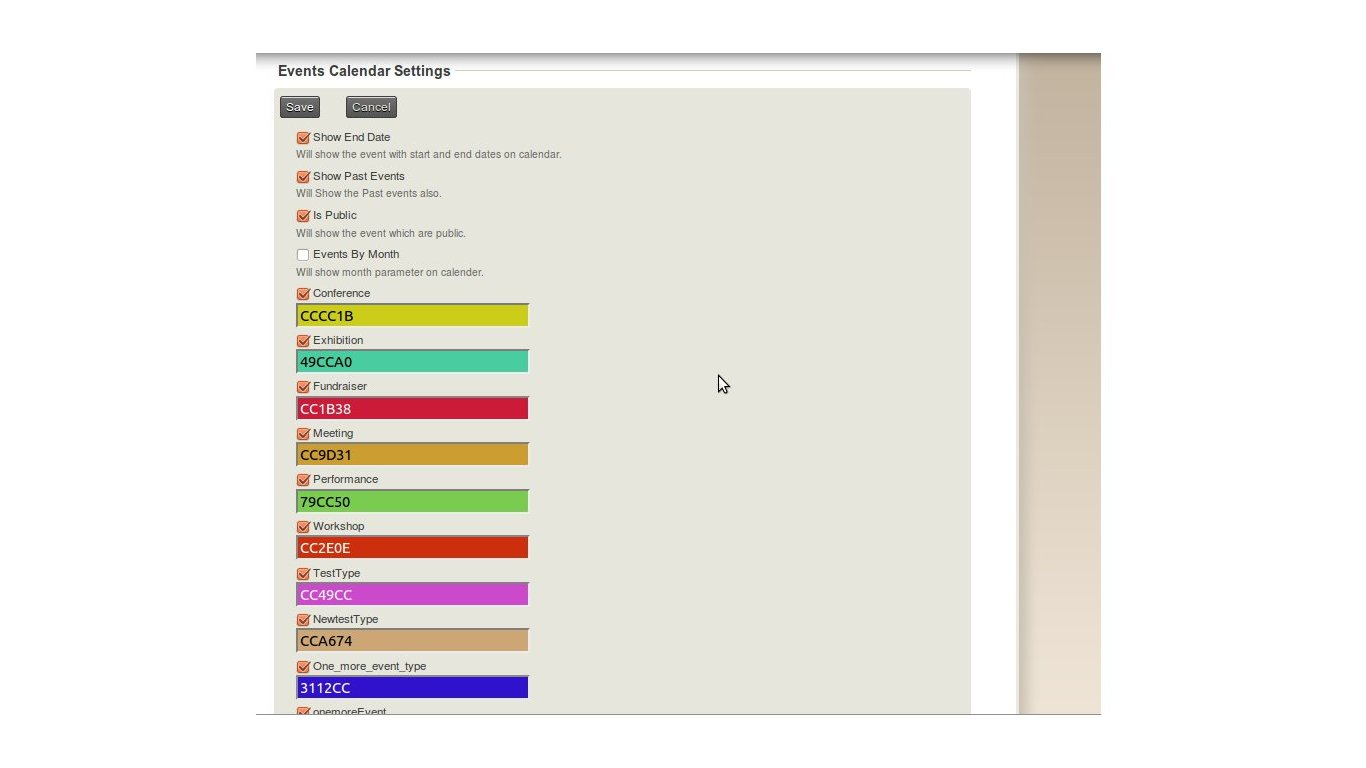
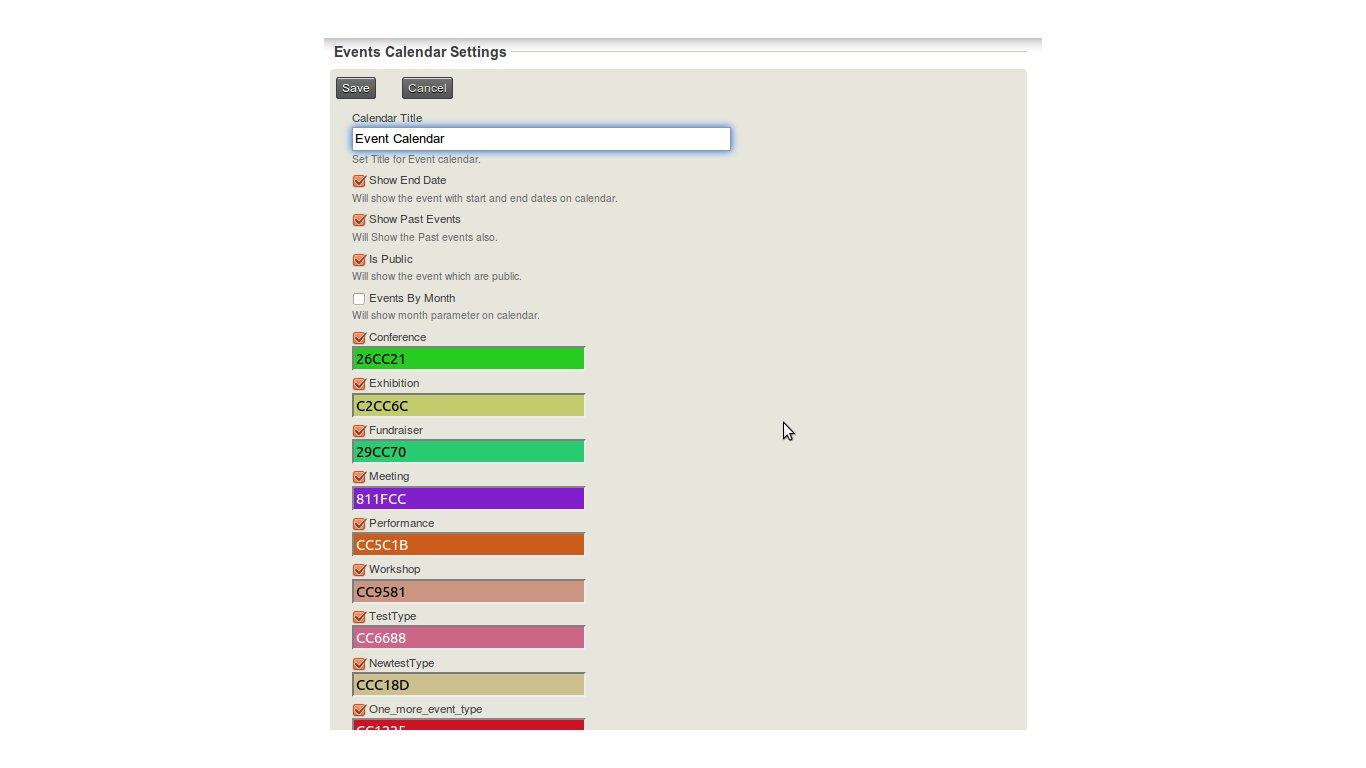
modified to add text box for title field

Changed region(s): [[0.1845, 0.0312, 0.8302, 0.9688]]

diff --git a/CRM/Eventcalendar/Form/EventSettings.php b/CRM/Eventcalendar/Form/EventSettings.php
@@ -75,37 +75,43 @@ function setDefaultValues() {
         $defaults[$key] = $key; 
       }
     }
- if(isset($config->civicrm_events_event_past)) { 
-  $defaults['show_past_event'] = $config->civicrm_events_event_past;
- } else {
+  if(isset($config->civicrm_event_calendar_title)) { 
+    $defaults['event_calendar_title'] = $config->civicrm_event_calendar_title;
+  } else {
+    $config->civicrm_event_calendar_title = 'Event Calendar';
+    $defaults['event_calendar_title'] = 'Event Calendar';
+   }
+  if(isset($config->civicrm_events_event_past)) { 
+    $defaults['show_past_event'] = $config->civicrm_events_event_past;
+  } else {
     $config->civicrm_events_event_past = 1;
     $defaults['show_past_event'] = 1;
    } 
- if(isset($config->civicrm_events_event_is_public)) { 
-  $defaults['event_is_public'] = $config->civicrm_events_event_is_public;
- } else {
+  if(isset($config->civicrm_events_event_is_public)) { 
+    $defaults['event_is_public'] = $config->civicrm_events_event_is_public;
+  } else {
     $config->civicrm_events_event_is_public = 1;
     $defaults['event_is_public'] = 1;
-   } 
+  } 
   if(isset($config->civicrm_events_event_end_date)) { 
-  $defaults['show_end_date'] = $config->civicrm_events_event_end_date;
- } else {
+    $defaults['show_end_date'] = $config->civicrm_events_event_end_date;
+  } else {
     $config->civicrm_events_event_end_date = 1; 
     $defaults['show_end_date'] = 1;
-   } 
- if(isset($config->civicrm_events_event_months)) { 
-  $defaults['events_event_month'] = $config->civicrm_events_event_months;
- } else {
+  } 
+  if(isset($config->civicrm_events_event_months)) { 
+    $defaults['events_event_month'] = $config->civicrm_events_event_months;
+  } else {
     $config->civicrm_events_event_months = 0;
     $defaults['events_event_month'] = 0;
-   }
+  }
   if(isset($config->show_event_from_month)) { 
-  $defaults['show_event_from_month'] = $config->show_event_from_month;
- } else {
+    $defaults['show_event_from_month'] = $config->show_event_from_month;
+  } else {
     $config->show_event_from_month = '';
     $defaults['show_event_from_month'] = '';
-   }
- return $defaults; 
+  }
+   return $defaults; 
 }
 
 
@@ -119,6 +125,7 @@ public function buildQuickForm( ){
   parent::buildQuickForm( );
   $config = CRM_Core_Config::singleton();
   $this->add('text', 'show_event_from_month', ts('Show Events from how many months from current month '), array('size' => 50));
+  $this->add('text', 'event_calendar_title', ts('Calendar Title'), array('size' => 50));
   $this->addElement('checkbox', 'show_end_date', ts('Show End Date'));
   $this->addElement('checkbox', 'event_is_public', ts('Is Public'));
   $this->addElement('checkbox', 'events_event_month', ts('Events By Month'));
@@ -165,6 +172,11 @@ public function postProcess() {
     } 
   }  
   $configParams['civicrm_events_event_types'] = $event_type;
+  if( isset($params['event_calendar_title']) ) {
+    $configParams['civicrm_event_calendar_title'] = $params['event_calendar_title'];
+  } else {
+    $configParams['civicrm_event_calendar_title'] = 'Event Calendar';
+  }
   if( isset($params['show_past_event']) && $params['show_past_event'] == 1 ) {
     $configParams['civicrm_events_event_past'] = $params['show_past_event'];
   } else {

diff --git a/CRM/Eventcalendar/Page/ShowEvents.php b/CRM/Eventcalendar/Page/ShowEvents.php
@@ -38,8 +38,12 @@ require_once 'CRM/Core/Page.php';
 class CRM_Eventcalendar_Page_ShowEvents extends CRM_Core_Page {
   function run() {
   // Example: Set the page-title dynamically; alternatively, declare a static title in xml/Menu/*.xml
-  CRM_Utils_System::setTitle(ts('Show Events'));
   $config = CRM_Core_Config::singleton();
+  if(isset($config->civicrm_event_calendar_title) && !empty($config->civicrm_event_calendar_title)) {
+    CRM_Utils_System::setTitle(ts($config->civicrm_event_calendar_title));
+  } else {
+    CRM_Utils_System::setTitle(ts('Event Calendar'));
+  } 
   $whereCondition = '';
   $eventTypes = array(); 
   $colorevents = array(); 
